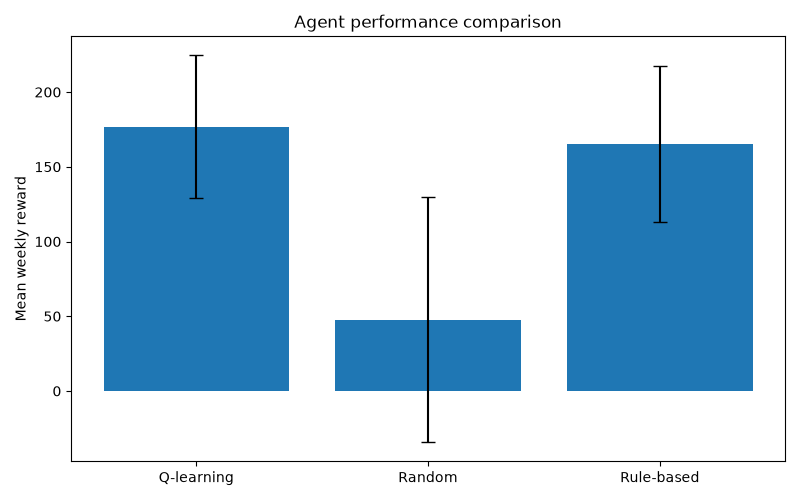
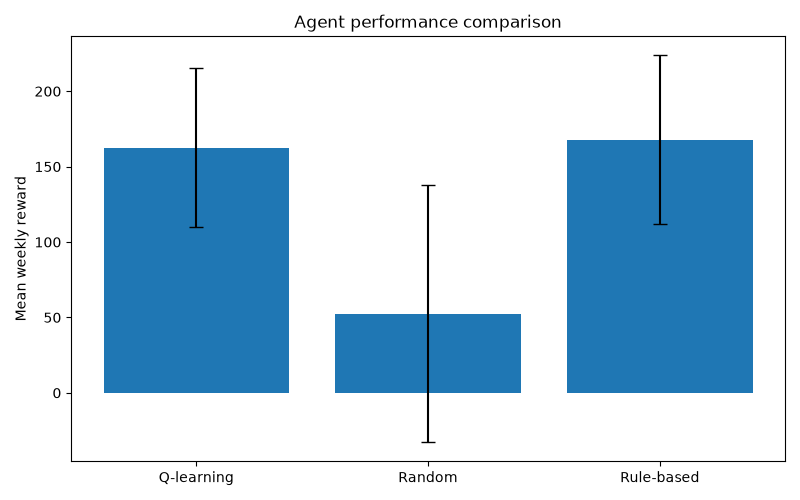
fixed an ugly bug in env situation handling

diff --git a/main.py b/main.py
@@ -6,6 +6,8 @@ import os
 import platform
 import subprocess
 import numpy as np
+import parameters as p
+import random
 
 def notify(): #ONLY TESTED ON MAC
     system = platform.system()
@@ -76,29 +78,28 @@ def train(agent, length, show_q = False):
 
 
 def main():
+    rng = random.Random(p.ENVIRONMENT_SEED)
     os.makedirs("results", exist_ok=True)
-    print("How many training episodes should we run?")
-    print("For quick but usable results, one million.")
-    print("10 million and you can probably go eat dinner.")
-    TRAIN_LENGTH = int(input("Insert number: "))
-    SHOW_Q_TABLES = bool(input("Before we start - type 1 if you want to see the q-tables, 0 if you do not. : "))
+    print(f"Starting training with {p.TRAINING_EPISODES} episodes. Please wait.")
     q_agent = QLearningAgent()
-    train(q_agent, TRAIN_LENGTH, SHOW_Q_TABLES)
+    train(q_agent, p.TRAINING_EPISODES, p.SHOW_Q_TABLES)
     epsilon_plotter(q_agent.epsilon_plot)
     notify()
     print("Ding dong, training is done")
     input("Press Enter to proceed with evaluations.")
 
-    evaluations = 5
-    seeds = [1337, 42, 58808, 6767, 9001]
+    seeds = rng.sample(range(2**32), k=p.EVALUATION_RUNS)
     random_agent = RandomAgent()
     rule_agent = RuleBasedAgent()
     # Generate evaluation outcomes
-    for i in range(evaluations):
-        env = WheatMill(seeds[i])
-        q_outcomes = q_agent.greedy_path(env, episodes=100)
-        random_outcomes = random_agent.run(env, episodes=100)
-        rule_outcomes = rule_agent.run(env, episodes=100)
+    for i in range(p.EVALUATION_RUNS):
+        q_env = WheatMill(seeds[i])
+        ran_env = WheatMill(seeds[i])
+        rule_env = WheatMill(seeds[i])
+
+        q_outcomes = q_agent.greedy_path(q_env, p.EVALUATION_EPISODES)
+        random_outcomes = random_agent.run(ran_env, p.EVALUATION_EPISODES)
+        rule_outcomes = rule_agent.run(rule_env, p.EVALUATION_EPISODES)
 
 
         results = {

diff --git a/agent.py b/agent.py
@@ -29,7 +29,6 @@ class EpisodeOutcome(NamedTuple):
 class RandomAgent:
     def __init__(self):
         self.rngesus = random.Random(p.DEFAULT_AGENT_SEED)
-        self.history = []
 
 
     def choose(self, flag = False):
@@ -92,16 +91,10 @@ class RandomAgent:
         return outcome
 
     def run(self, env, episodes):
-        for _ in range(episodes):
-            outcome = self.episode(env)
-            self.history.append(outcome)
-        return self.history
+        return [self.episode(env) for _ in range(episodes)]
 
 
 class RuleBasedAgent:
-    def __init__(self):
-            self.history = []
-
 
     def choose_week(self, state):
         stock, dist = state
@@ -206,12 +199,8 @@ class RuleBasedAgent:
             )
         return outcome
 
-
     def run(self, env, episodes):
-        for _ in range(episodes):
-            outcome = self.episode(env)
-            self.history.append(outcome)
-        return self.history
+        return [self.episode(env) for _ in range(episodes)]
 
 class QLearningAgent:
     def __init__(self):
@@ -356,10 +345,15 @@ class QLearningAgent:
 
         return self.history
 
+    def reset_episode_memory(self):
+        self.weekend_state = None
+        self.weekend_action = None
+        self.weekend_reward = 0
 
     def greedy_path(self, env, episodes):
         demo_history =[]
         for _ in range(episodes):
+            self.reset_episode_memory()
             outcome = self.episode(env, learn = False)
             demo_history.append(outcome)
         return demo_history

diff --git a/interpreters.py b/interpreters.py
@@ -166,7 +166,7 @@ def plot_comparison(results, iter):
     plt.ylabel("Mean weekly reward")
     plt.title("Agent performance comparison")
     plt.tight_layout()
-    plt.savefig(f"results/agent_comparison{iter}.png")
+    plt.savefig(f"results/agent_comparison{iter+1}.png")
 
 
 def outcome_interpreter(outcome: EpisodeOutcome):

diff --git a/wheatmill.py b/wheatmill.py
@@ -347,7 +347,7 @@ class WheatMill():
             situation = self.current_stock - todays_orders
         else:
             situation = self.current_stock
-        if situation < 0:
+        if situation <= 0:
             return 0 #empty
         elif situation <= 3:
             return 1 #low

diff --git a/parameters.py b/parameters.py
@@ -1,6 +1,10 @@
 
 DEFAULT_AGENT_SEED = 42069
 ENVIRONMENT_SEED = 404
+TRAINING_EPISODES = 1000000
+EVALUATION_EPISODES = 500
+EVALUATION_RUNS = 5 #that's how many different plots and environments you get
+SHOW_Q_TABLES = True
 
 #region REWARD TABLE
 
